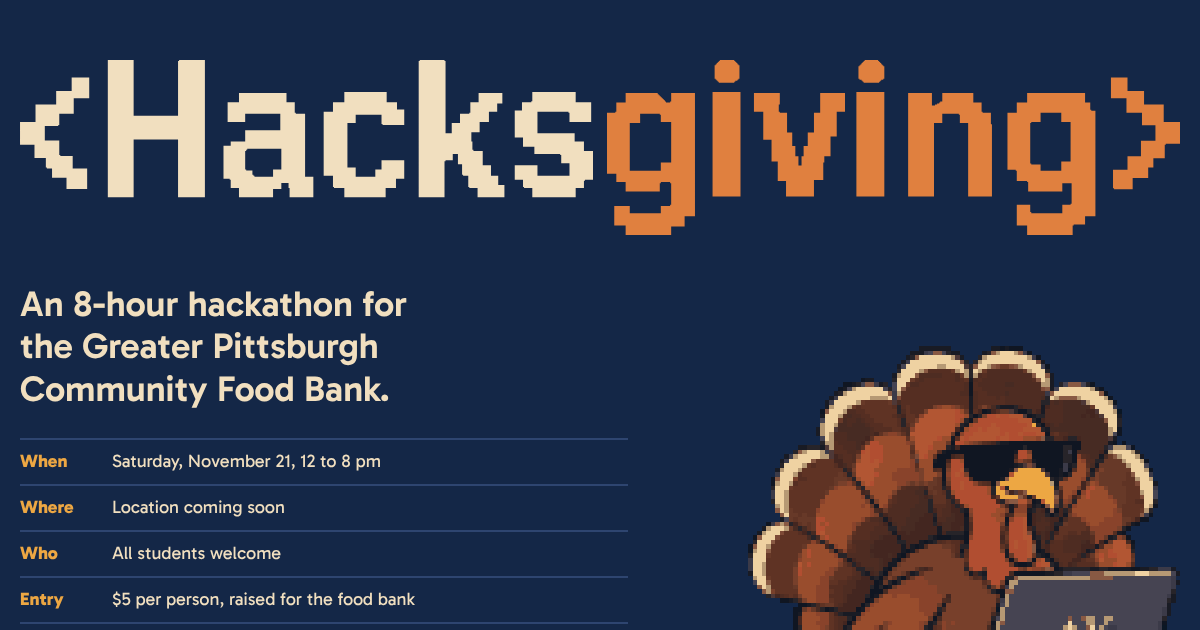
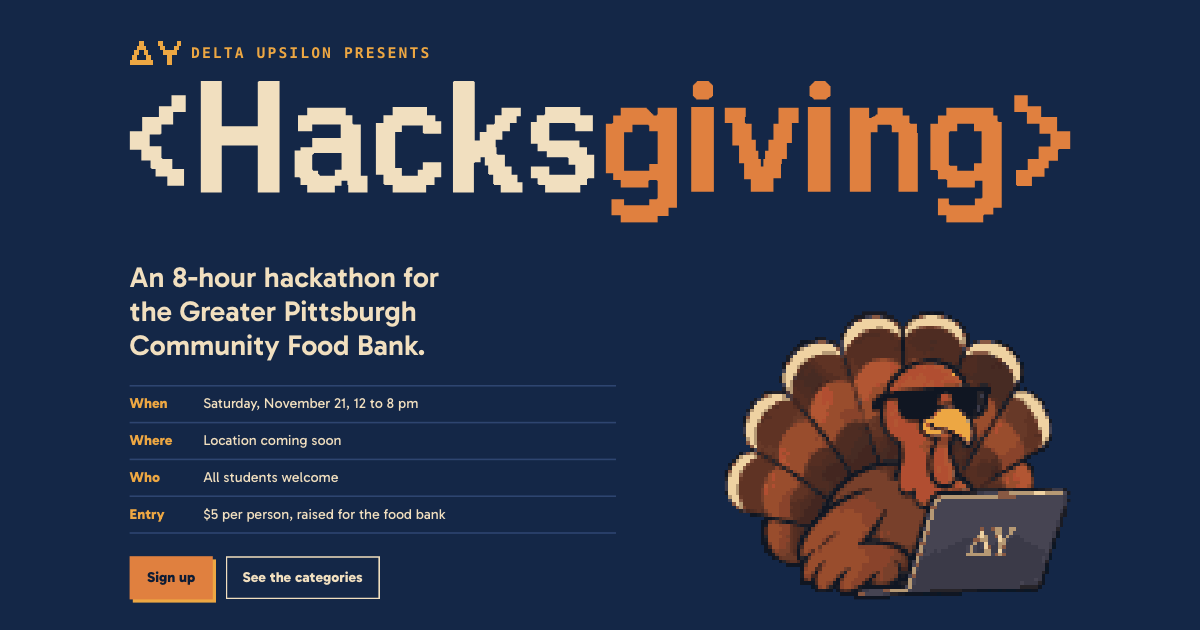
Make Delta Upsilon visible as the host
Add a "Delta Upsilon presents" line to the hero, "by ΔΥ" in the header,
a Hosted by Delta Upsilon section before signup, and a new link preview.

diff --git a/src/app/globals.css b/src/app/globals.css
@@ -98,6 +98,8 @@ body::before {
   padding-right: max(20px, env(safe-area-inset-right, 0px));
 }
 .topbar__brand { display: block; width: 8.5rem; flex: none; }
+.topbar__by { display: flex; align-items: center; gap: 0.4rem; margin-left: -0.75rem; color: var(--muted); font-size: 0.9rem; font-weight: 600; white-space: nowrap; }
+.topbar__greek { display: block; height: 0.85rem; width: auto; color: var(--gold); }
 .topbar__nav { display: flex; gap: 1.5rem; margin-left: auto; font-weight: 600; font-size: 1rem; }
 .topbar__nav a { text-decoration: none; }
 .topbar__nav a:hover { color: var(--gold); }
@@ -126,22 +128,26 @@ body::before {
 .facts dd { text-wrap: pretty; }
 .hero__actions { display: flex; flex-wrap: wrap; gap: 1rem; }
 
-/* Hero entrance: the wordmark types itself in, then the details rise and the turkey drops in. */
+.hero__presents { display: flex; align-items: center; gap: 0.75rem; margin-bottom: calc(-1 * clamp(1rem, 2.5vw, 1.75rem)); font-family: var(--font-code); font-weight: 600; font-size: clamp(0.9rem, 1.6vw, 1.15rem); letter-spacing: 0.14em; text-transform: uppercase; color: var(--gold); }
+.hero__greek { display: block; height: 1.6em; width: auto; flex: none; }
+
+/* Hero entrance: "presents" and the wordmark type themselves in, then the details rise and the turkey drops in. */
+.hero__presents { animation: wm-type 0.5s steps(10, end) both; }
 .hero .wm__part { animation: wm-type 0.9s steps(12, end) both; }
-.hero .wm__part--orange { animation-delay: 0.55s; }
-.hero .wm__part--cream { animation-delay: 0.1s; }
+.hero .wm__part--orange { animation-delay: 0.95s; }
+.hero .wm__part--cream { animation-delay: 0.5s; }
 .hero__tagline, .facts > div, .hero__actions > * { animation: rise 0.6s cubic-bezier(0.2, 0.8, 0.2, 1) backwards; }
-.hero__tagline { animation-delay: 1.3s; }
+.hero__tagline { animation-delay: 1.7s; }
 .facts { border-top-color: transparent; position: relative; }
-.facts::before { content: ""; position: absolute; inset: -2px 0 auto; height: 2px; background: var(--navy-line); transform-origin: left; animation: draw 0.7s 1.35s cubic-bezier(0.6, 0, 0.2, 1) both; }
-.facts > div:nth-child(1) { animation-delay: 1.45s; }
-.facts > div:nth-child(2) { animation-delay: 1.55s; }
-.facts > div:nth-child(3) { animation-delay: 1.65s; }
-.facts > div:nth-child(4) { animation-delay: 1.75s; }
-.hero__actions > :nth-child(1) { animation-delay: 1.95s; }
-.hero__actions > :nth-child(2) { animation-delay: 2.05s; }
-.hero__turkey { animation: turkey-drop 0.9s 1.1s cubic-bezier(0.3, 1.4, 0.5, 1) both, turkey-bob 2.4s 2.2s steps(2, jump-none) infinite; }
-.hero__actions .button:first-child::after { content: ""; position: absolute; inset: -4px; border: 2px solid var(--gold); opacity: 0; animation: ping 1.4s 2.6s ease-out 2; pointer-events: none; }
+.facts::before { content: ""; position: absolute; inset: -2px 0 auto; height: 2px; background: var(--navy-line); transform-origin: left; animation: draw 0.7s 1.75s cubic-bezier(0.6, 0, 0.2, 1) both; }
+.facts > div:nth-child(1) { animation-delay: 1.85s; }
+.facts > div:nth-child(2) { animation-delay: 1.95s; }
+.facts > div:nth-child(3) { animation-delay: 2.05s; }
+.facts > div:nth-child(4) { animation-delay: 2.15s; }
+.hero__actions > :nth-child(1) { animation-delay: 2.35s; }
+.hero__actions > :nth-child(2) { animation-delay: 2.45s; }
+.hero__turkey { animation: turkey-drop 0.9s 1.5s cubic-bezier(0.3, 1.4, 0.5, 1) both, turkey-bob 2.4s 2.6s steps(2, jump-none) infinite; }
+.hero__actions .button:first-child::after { content: ""; position: absolute; inset: -4px; border: 2px solid var(--gold); opacity: 0; animation: ping 1.4s 3.0s ease-out 2; pointer-events: none; }
 .hero__actions .button:first-child { position: relative; }
 
 @keyframes wm-type { from { clip-path: inset(0 100% 0 0); } to { clip-path: inset(0 0 0 0); } }
@@ -291,6 +297,14 @@ body::before {
 .table__inner > div { display: grid; gap: 0.75rem; align-content: start; }
 .table__title { font-family: var(--font-display); font-weight: 400; font-size: clamp(2rem, 3.8vw, 3rem); color: var(--gold); }
 
+/* Hosts */
+.hosts { padding-bottom: 0; }
+.hosts__panel { display: grid; grid-template-columns: minmax(0, 4fr) minmax(0, 8fr); gap: clamp(1.5rem, 4vw, 4rem); align-items: center; padding: clamp(1.5rem, 4vw, 3rem); background: var(--navy-deep); border: 2px solid var(--navy-line); box-shadow: 8px 8px 0 var(--gold); }
+.hosts__greek { display: block; width: 100%; max-width: 16rem; height: auto; color: var(--gold); justify-self: center; filter: drop-shadow(5px 5px 0 var(--orange-ink)); }
+.hosts__text { display: grid; gap: 1rem; min-width: 0; }
+.hosts__text p { max-width: 52ch; }
+.hosts__motto { font-family: var(--font-code); font-size: 0.95rem; color: var(--gold); letter-spacing: 0.04em; padding-top: 0.75rem; border-top: 2px solid var(--navy-line); }
+
 /* Signup */
 .form-panel { margin-top: 2.5rem; background: var(--paper); color: var(--ink); box-shadow: 8px 8px 0 var(--orange); padding: clamp(1rem, 2vw, 1.5rem); }
 .form-panel__frame { display: block; width: 100%; height: 145rem; border: 0; background: #fff; }
@@ -331,7 +345,8 @@ body::before {
   .hero__body { grid-template-columns: minmax(0, 1fr); }
   .hero__turkey { order: -1; width: min(70%, 20rem); justify-self: end; margin-top: -1rem; }
   .prize { grid-template-columns: minmax(0, 1fr); gap: 0.75rem; }
-  .locked { grid-template-columns: minmax(0, 1fr); }
+  .locked, .hosts__panel { grid-template-columns: minmax(0, 1fr); }
+  .hosts__greek { max-width: 9rem; justify-self: start; }
   .padlock__button { width: min(60%, 12rem); }
   .john__inner, .meals, .fund__columns, .faq__inner { grid-template-columns: minmax(0, 1fr); }
 }

diff --git a/src/app/page.tsx b/src/app/page.tsx
@@ -8,6 +8,7 @@ import {
   stillDeciding,
 } from "@/content/event";
 import { GravyLaptop } from "@/components/GravyLaptop";
+import { GreekLetters } from "@/components/GreekLetters";
 import { LockedCategory } from "@/components/LockedCategory";
 import { SignupEmbed } from "@/components/SignupEmbed";
 import { Wordmark } from "@/components/Wordmark";
@@ -19,6 +20,10 @@ export default function Home() {
     <>
       <section className="hero">
         <div className="wrap hero__inner">
+          <p className="hero__presents">
+            <GreekLetters className="hero__greek" />
+            {event.host} presents
+          </p>
           <h1 className="wordmark">
             <span className="sr">Hacksgiving</span>
             <Wordmark />
@@ -212,6 +217,26 @@ export default function Home() {
               Every participant should go home with something. Expect turkey stickers in a few
               designs, and a shirt supporting the food drive.
             </p>
+          </div>
+        </div>
+      </section>
+
+      <section className="section hosts" id="hosts">
+        <div className="wrap">
+          <div className="hosts__panel">
+            <GreekLetters className="hosts__greek" />
+            <div className="hosts__text">
+              <h2 className="section__title">Hosted by {event.host}</h2>
+              <p>
+                Hacksgiving is run by the brothers of {event.host} at Carnegie Mellon, a
+                non-hazing, non-secret fraternity where everyone can belong.
+              </p>
+              <p>
+                We&apos;re judging Best Technical, cooking up the dinner plans, and sending every
+                dollar you raise to the food bank.
+              </p>
+              <p className="hosts__motto">{event.motto}</p>
+            </div>
           </div>
         </div>
       </section>

diff --git a/src/components/SiteHeader.tsx b/src/components/SiteHeader.tsx
@@ -1,4 +1,6 @@
 import Link from "next/link";
+import { event } from "@/content/event";
+import { GreekLetters } from "./GreekLetters";
 import { WordmarkInline } from "./Wordmark";
 
 export function SiteHeader() {
@@ -8,6 +10,10 @@ export function SiteHeader() {
         <Link className="topbar__brand" href="/" aria-label="Hacksgiving home">
           <WordmarkInline />
         </Link>
+        <span className="topbar__by">
+          by <GreekLetters className="topbar__greek" />
+          <span className="sr">{event.host}</span>
+        </span>
         <nav className="topbar__nav" aria-label="Main">
           <Link href="/#categories">Categories</Link>
           <Link href="/#fundraising">Fundraising</Link>

diff --git a/src/components/GreekLetters.tsx b/src/components/GreekLetters.tsx
@@ -1,0 +1,12 @@
+/** "ΔΥ" drawn as pixels on a 22 by 10 grid, with strokes as heavy as the wordmark's. */
+const DELTA_UPSILON =
+  "M4 0h2v2h-2zM3 2h4v2h-4zM2 4h2v2h-2zM6 4h2v2h-2zM1 6h2v2h-2zM7 6h2v2h-2zM0 8h10v2h-10z" +
+  "M12 0h2v2h-2zM20 0h2v2h-2zM13 2h2v2h-2zM19 2h2v2h-2zM14 4h6v2h-6zM16 6h2v4h-2z";
+
+export function GreekLetters({ className }: { className?: string }) {
+  return (
+    <svg className={className} viewBox="0 0 22 10" shapeRendering="crispEdges" aria-hidden="true">
+      <path fill="currentColor" d={DELTA_UPSILON} />
+    </svg>
+  );
+}
